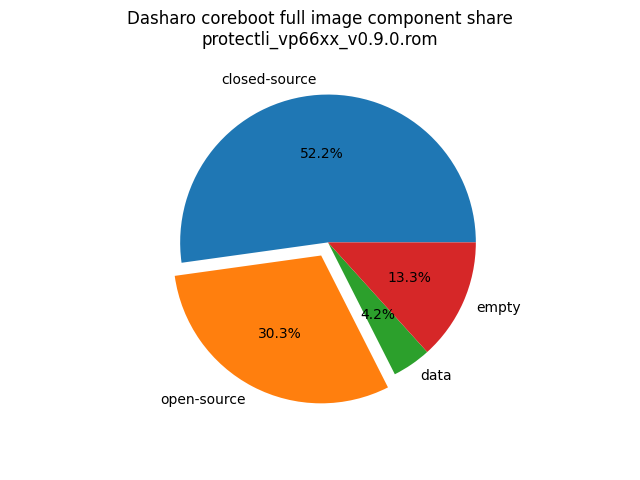
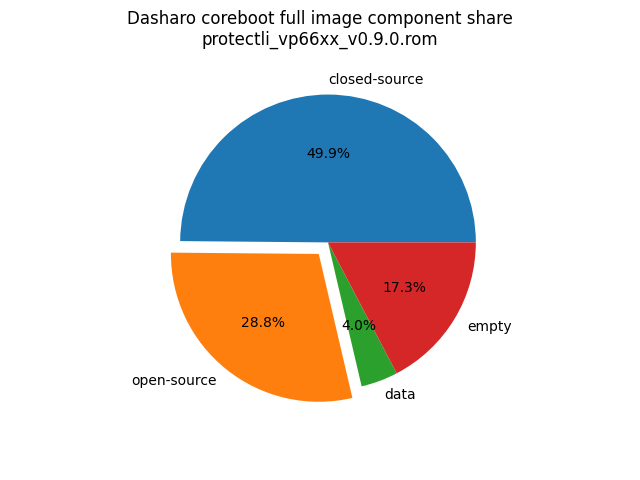
protectli_vp66xx/openness_score.md: Update after fix in openness_score

diff --git a/docs/variants/protectli_vp66xx/openness_score.md b/docs/variants/protectli_vp66xx/openness_score.md
@@ -1,24 +1,17 @@
 # Dasharo Openness Score
 
-This page contains the [Dasharo Openness
-Score](../../glossary.md#dasharo-openness-score) for Protectli VP66XX Dasharo
-releases. The content of the page is generated with [Dasharo Openness Score
-utility](https://github.com/Dasharo/Openness-Score).
-
-## v0.9.0
-
 Openness Score for protectli_vp66xx_v0.9.0.rom
 
-Open-source code percentage: **36.7%**
-Closed-source code percentage: **63.3%**
+Open-source code percentage: **36.6%**
+Closed-source code percentage: **63.4%**
 
 * Image size: 16777216 (0x1000000)
-* Number of regions: 24
+* Number of regions: 25
 * Number of CBFSes: 3
 * Total open-source code size: 4830854 (0x49b686)
-* Total closed-source code size: 8332326 (0x7f2426)
+* Total closed-source code size: 8365094 (0x7fa426)
 * Total data size: 677420 (0xa562c)
-* Total empty size: 2121512 (0x205f28)
+* Total empty size: 2903848 (0x2c4f28)
 
 ![](protectli_vp66xx_v0.9.0.rom_openness_chart.png)
 
@@ -45,6 +38,7 @@ Closed-source code percentage: **63.3%**
 | RO_FRID | 0xb04800 | 0x100 | data |
 | RO_FRID_PAD | 0xb04900 | 0x700 | data |
 | GBB | 0xb05000 | 0x3000 | data |
+| SI_DEVICEEXT2 | 0x4c1000 | 0xbf000 | empty |
 
 ## CBFS BOOTSPLASH
 
